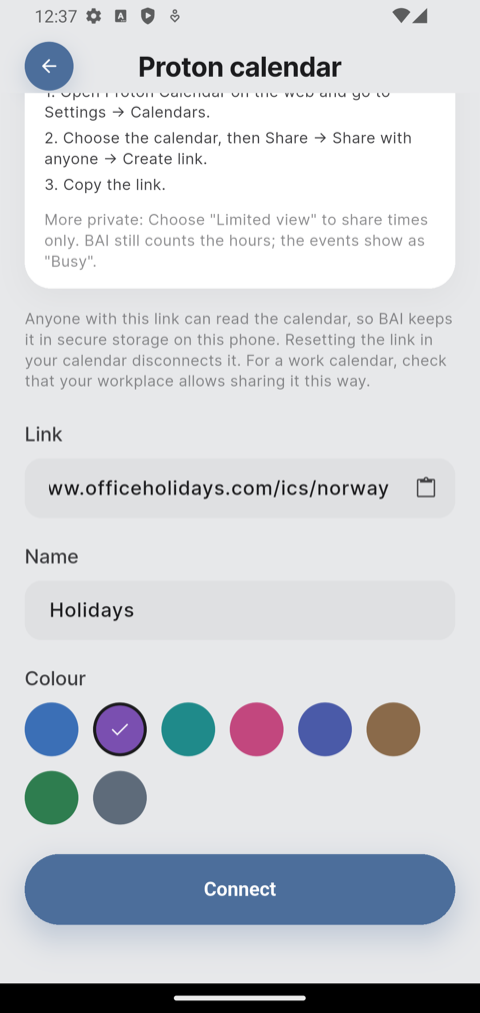
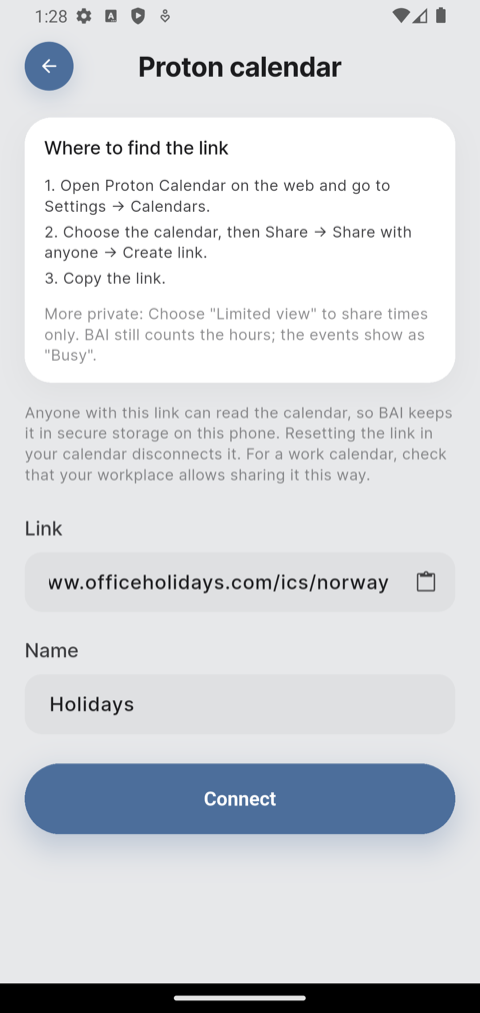
calendar_source_on_sheet
Tutorial: connected calendars without colours; an event's calendar is shown
when it is tapped. Policy: connected calendars keep a name, no colour.

diff --git a/tutorial/index.html b/tutorial/index.html
@@ -578,16 +578,17 @@
       </p>
       <ul>
         <li>BAI shows where that service keeps the calendar's link. Copy it, paste it
-            under <strong>Link</strong>, give the calendar a name and a colour, and tap
+            under <strong>Link</strong>, give the calendar a name, and tap
             <strong>Connect</strong>.</li>
         <li>Where the service offers it, you can share <em>busy times only</em>. BAI
             still counts the hours; the events show as "Busy".</li>
         <li>Each calendar shows when it was last updated. BAI updates it by itself;
             the <strong>refresh</strong> button updates it now. Tap a calendar to
             remove it.</li>
-        <li>On the Schedule, every event carries a small dot in its calendar's colour,
-            so you can tell where it came from. The same event in two calendars is
-            shown and counted once, with both dots.</li>
+        <li>To see which calendar an event came from, tap it on the Schedule: it says
+            <em>Phone – Work</em> for a calendar on your phone, or
+            <em>Linked calendar – Holidays</em> for one you connected. The same event
+            in two calendars is shown and counted once, and names both.</li>
       </ul>
       <p class="why">
         The link goes straight from your calendar service to your phone, and stays in
@@ -598,12 +599,12 @@
       </p>
     </div>
     <figure>
-      <img src="img/connected-add.png" alt="Adding a Proton calendar: the link pasted, named Holidays, a violet colour chosen, and the Connect button" onerror="shotMissing(this)">
-      <figcaption>Paste the link, name it, pick a colour</figcaption>
-      <img style="margin-top:18px" src="img/connected-list.png" alt="Connected calendars listing Holidays, from Proton, updated 12:37pm, with a refresh button" onerror="shotMissing(this)">
+      <img src="img/connected-add.png" alt="Adding a Proton calendar: where to find the link, the link pasted, named Holidays, and the Connect button" onerror="shotMissing(this)">
+      <figcaption>Paste the link and name it</figcaption>
+      <img style="margin-top:18px" src="img/connected-list.png" alt="Connected calendars listing Holidays, from Proton, updated 1:28pm, with a refresh button" onerror="shotMissing(this)">
       <figcaption>Connected, with when it last updated</figcaption>
-      <img style="margin-top:18px" src="img/schedule-calendar-dots.png" alt="A Schedule day with Norway: Christmas Eve marked with a violet dot and Year-end review with a blue dot" onerror="shotMissing(this)">
-      <figcaption>Each event's dot is its calendar's colour</figcaption>
+      <img style="margin-top:18px" src="img/event-source.png" alt="The sheet for Team meeting, 10:00am to 11:00am, saying Phone – Work under the time" onerror="shotMissing(this)">
+      <figcaption>Tap an event to see its calendar</figcaption>
     </figure>
   </div>
 </section>

diff --git a/index.md b/index.md
@@ -136,7 +136,7 @@ All of the following is read and stored locally, and is never sent anywhere:
   between Work and Life
 - **Events and calendars you set aside** — if you choose *Don't count this
   event*, or leave a calendar out, BAI remembers that choice on the phone
-- **Calendars you connect by link** — the name and colour you gave each, the
+- **Calendars you connect by link** — the name you gave each, the
   downloaded copy of the calendar, and the link itself. The link lets anyone
   who holds it read that calendar, so BAI keeps it in the phone's secure
   storage (the iPhone's Keychain, Android's Keystore). Connected calendars stay
